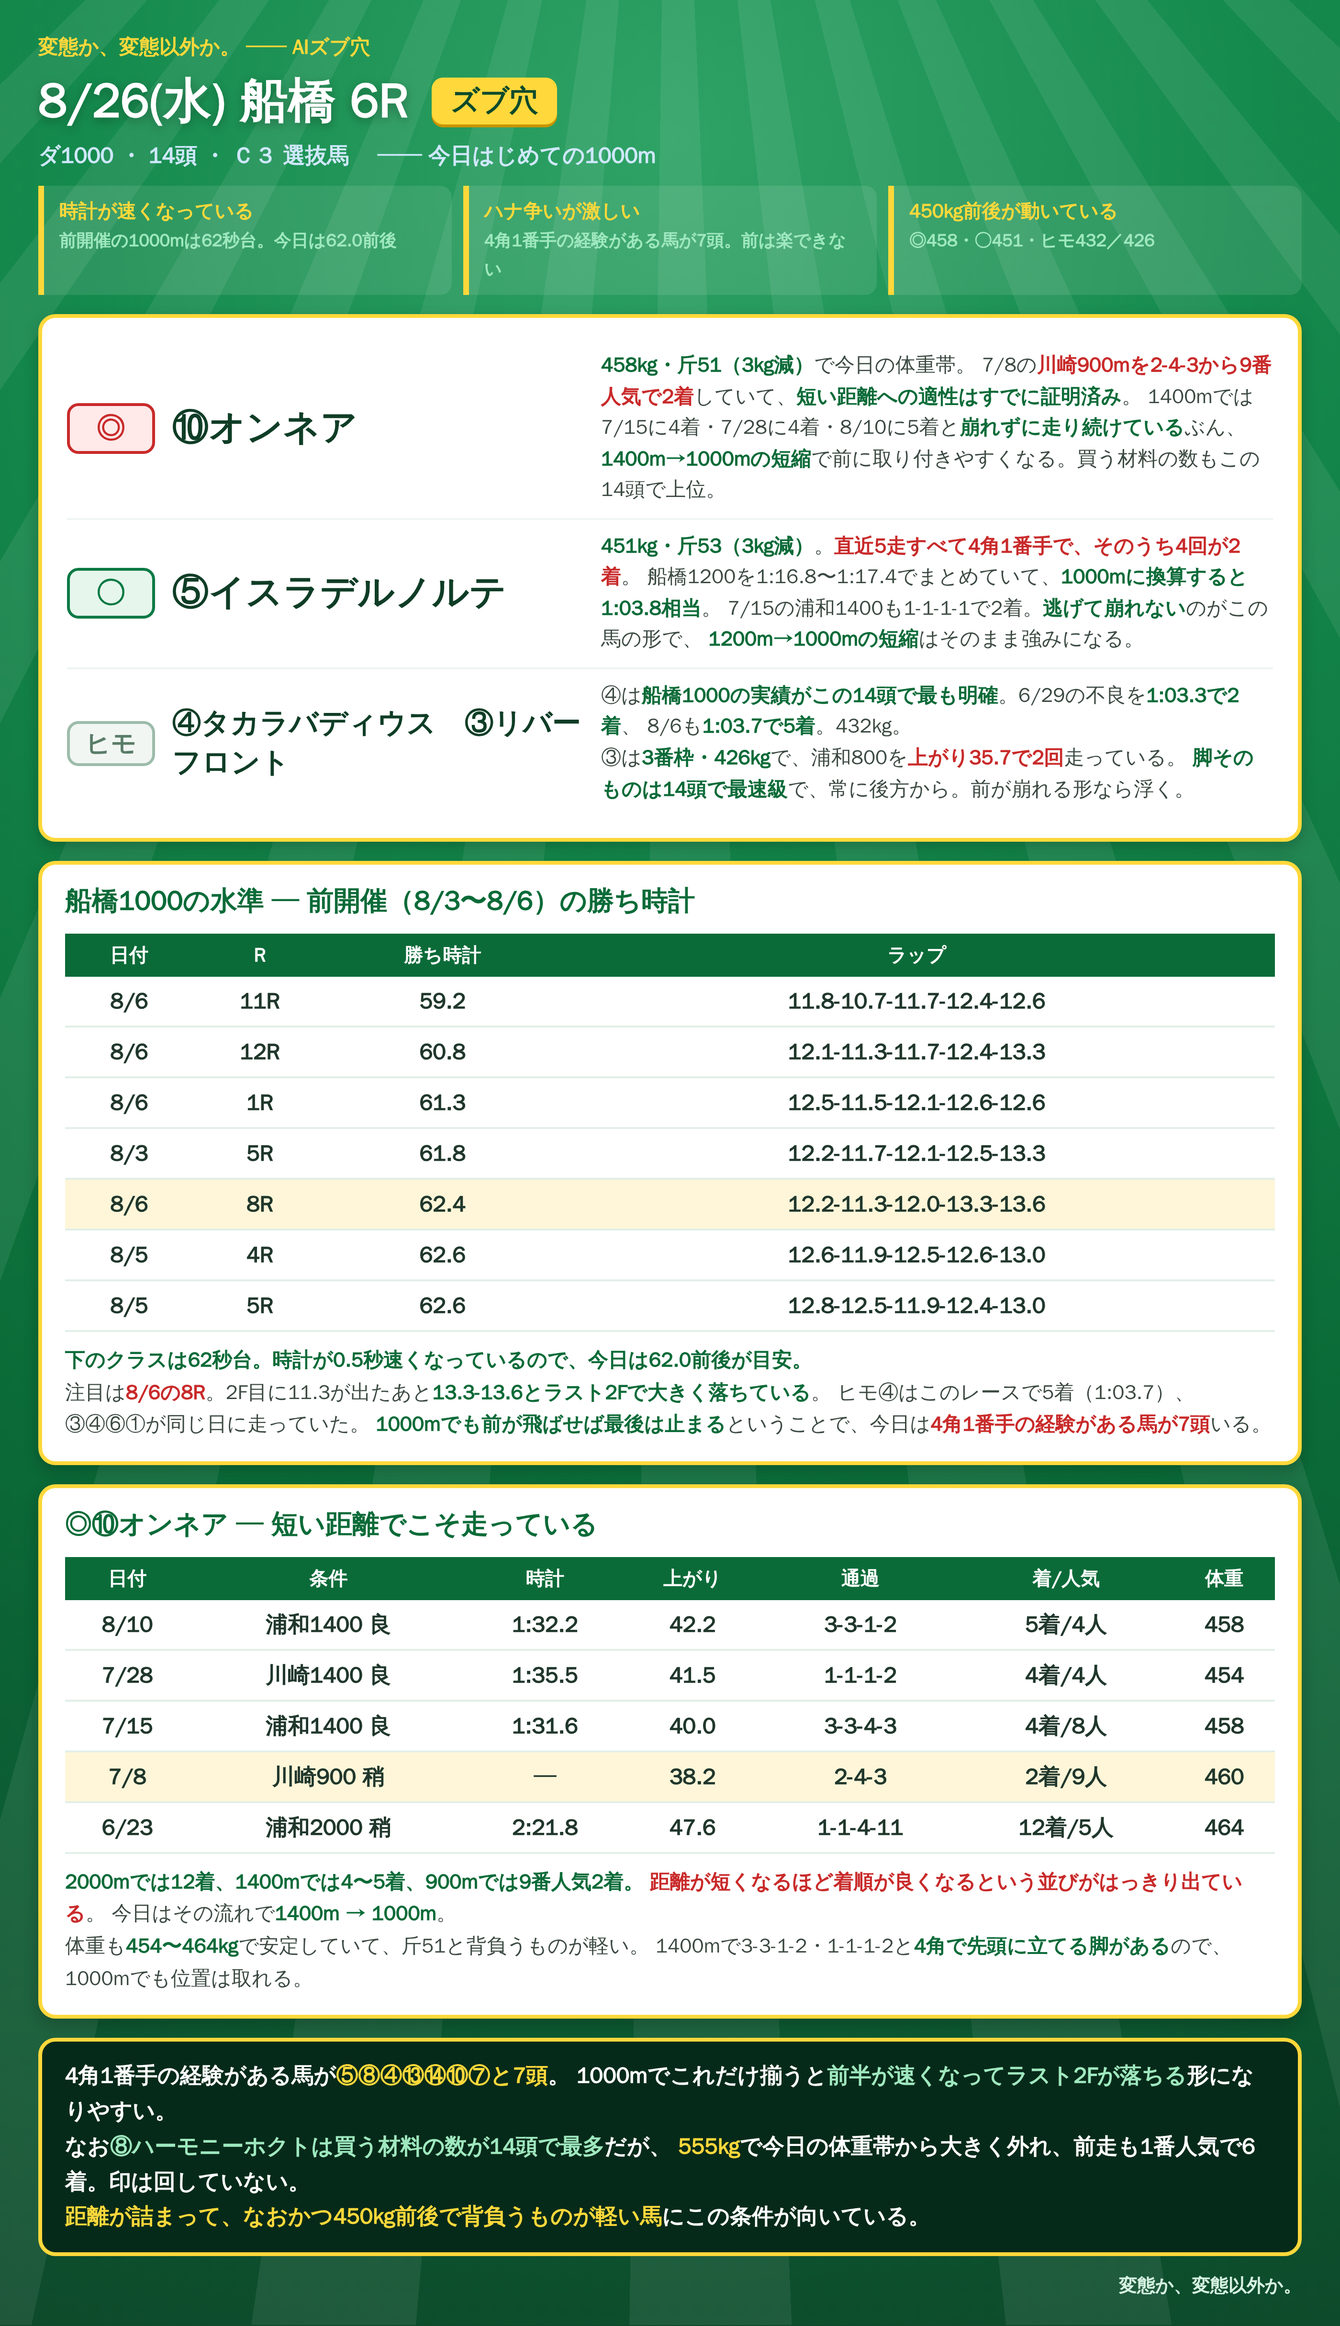
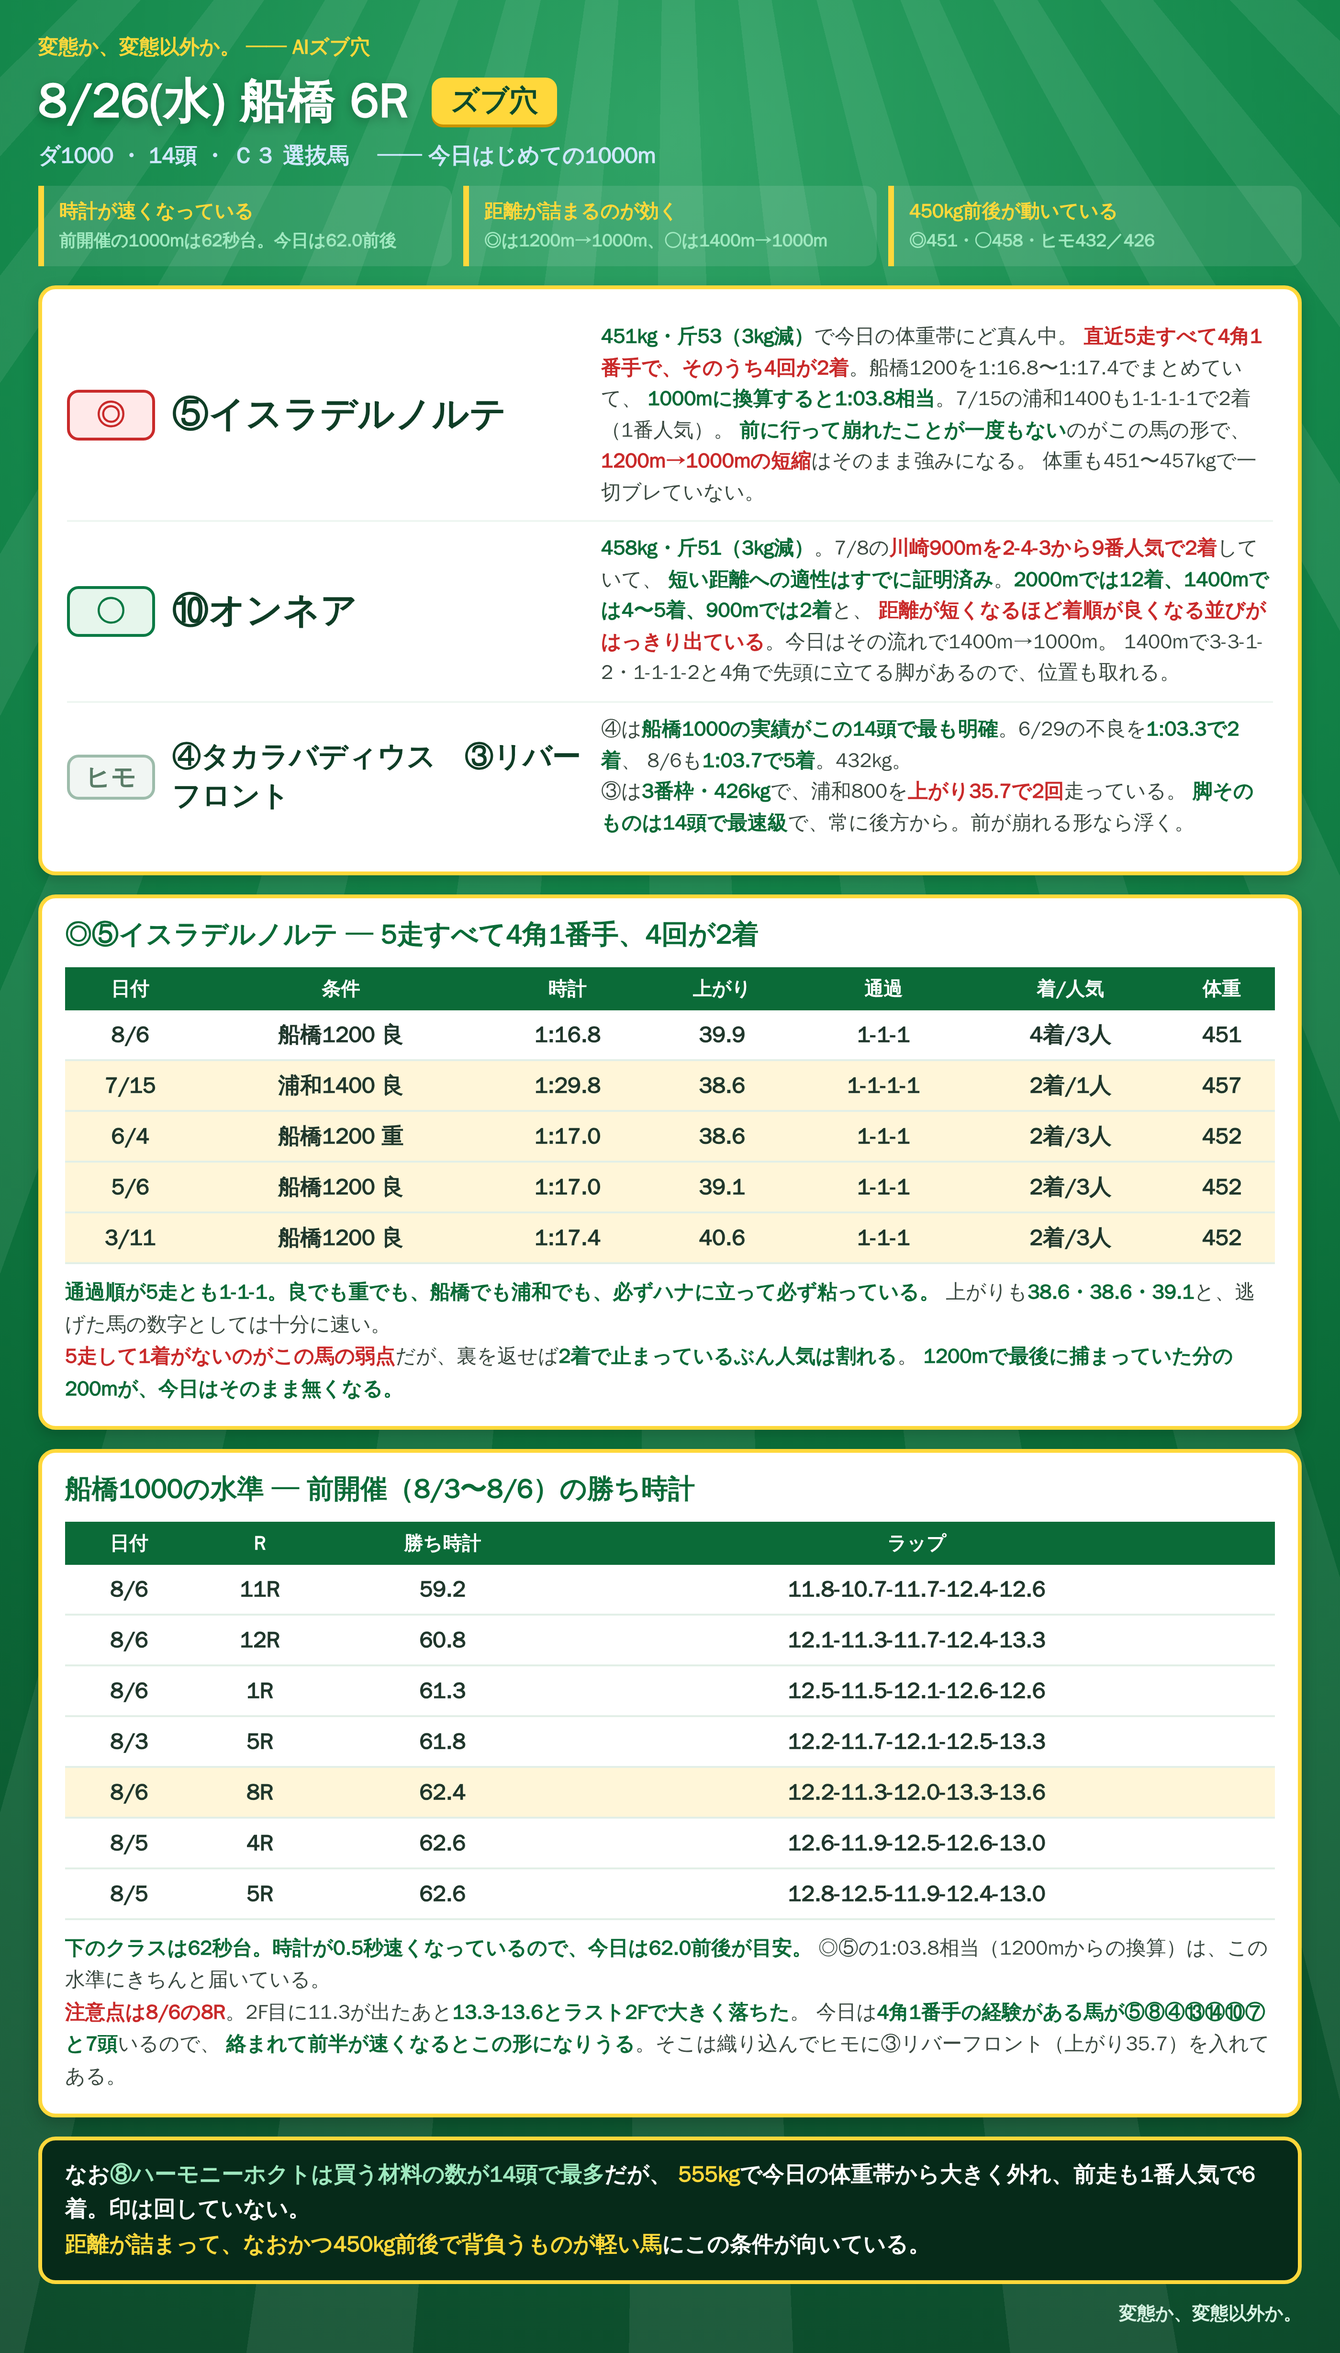
8/26 船橋 6R ◎⑤イスラデルノルテに差し替え
◎⑤イスラデルノルテ ○⑩オンネア に入れ替え（ヒモは④③のまま）。
⑤は直近5走すべて4角1番手でうち4回が2着、船橋1200の1:16.8は1000m換算1:03.8相当。
451kg・斤53で体重帯にど真ん中、体重も451〜457kgで一切ブレていない。
1200mで最後に捕まっていた200mが今日は無くなる、という組み立て。

4角1番手の経験がある馬が7頭いる点は織り込み済みで、前が飛ばして止まる形
（8/6 8Rの13.3-13.6）に備えてヒモに③リバーフロント（浦和800で上35.7）を残した。

Claude-Session: https://claude.ai/code/session_01RoHscZkr96FNaxQWvUqgEw

diff --git a/notes/live/2026-08-26/funabashi_6R.html b/notes/live/2026-08-26/funabashi_6R.html
@@ -45,24 +45,25 @@
 
 <div class="reads">
  <div class="rd"><b>時計が速くなっている</b><br><span class="x">前開催の1000mは62秒台。今日は62.0前後</span></div>
- <div class="rd"><b>ハナ争いが激しい</b><br><span class="x">4角1番手の経験がある馬が7頭。前は楽できない</span></div>
- <div class="rd"><b>450kg前後が動いている</b><br><span class="x">◎458・○451・ヒモ432／426</span></div>
+ <div class="rd"><b>距離が詰まるのが効く</b><br><span class="x">◎は1200m→1000m、○は1400m→1000m</span></div>
+ <div class="rd"><b>450kg前後が動いている</b><br><span class="x">◎451・○458・ヒモ432／426</span></div>
 </div>
 
 <div class="picks">
  <div class="pr">
-  <div class="mk">◎</div><div class="nm">⑩オンネア</div>
-  <div class="why"><b>458kg・斤51（3kg減）</b>で今日の体重帯。
-  7/8の<b class="r">川崎900mを2-4-3から9番人気で2着</b>していて、<b>短い距離への適性はすでに証明済み</b>。
-  1400mでは7/15に4着・7/28に4着・8/10に5着と<b>崩れずに走り続けている</b>ぶん、
-  <b>1400m→1000mの短縮</b>で前に取り付きやすくなる。買う材料の数もこの14頭で上位。</div>
+  <div class="mk">◎</div><div class="nm">⑤イスラデルノルテ</div>
+  <div class="why"><b>451kg・斤53（3kg減）</b>で今日の体重帯にど真ん中。
+  <b class="r">直近5走すべて4角1番手で、そのうち4回が2着</b>。船橋1200を1:16.8〜1:17.4でまとめていて、
+  <b>1000mに換算すると1:03.8相当</b>。7/15の浦和1400も1-1-1-1で2着（1番人気）。
+  <b>前に行って崩れたことが一度もない</b>のがこの馬の形で、<b class="r">1200m→1000mの短縮</b>はそのまま強みになる。
+  体重も451〜457kgで一切ブレていない。</div>
  </div>
  <div class="pr">
-  <div class="mk mk2">○</div><div class="nm">⑤イスラデルノルテ</div>
-  <div class="why"><b>451kg・斤53（3kg減）</b>。<b class="r">直近5走すべて4角1番手で、そのうち4回が2着</b>。
-  船橋1200を1:16.8〜1:17.4でまとめていて、<b>1000mに換算すると1:03.8相当</b>。
-  7/15の浦和1400も1-1-1-1で2着。<b>逃げて崩れない</b>のがこの馬の形で、
-  <b>1200m→1000mの短縮</b>はそのまま強みになる。</div>
+  <div class="mk mk2">○</div><div class="nm">⑩オンネア</div>
+  <div class="why"><b>458kg・斤51（3kg減）</b>。7/8の<b class="r">川崎900mを2-4-3から9番人気で2着</b>していて、
+  <b>短い距離への適性はすでに証明済み</b>。<b>2000mでは12着、1400mでは4〜5着、900mでは2着</b>と、
+  <b class="r">距離が短くなるほど着順が良くなる並びがはっきり出ている</b>。今日はその流れで1400m→1000m。
+  1400mで3-3-1-2・1-1-1-2と4角で先頭に立てる脚があるので、位置も取れる。</div>
  </div>
  <div class="pr">
   <div class="mk mk3">ヒモ</div><div class="nm s">④タカラバディウス　③リバーフロント</div>
@@ -71,6 +72,22 @@
   ③は<b>3番枠・426kg</b>で、浦和800を<b class="r">上がり35.7で2回</b>走っている。
   <b>脚そのものは14頭で最速級</b>で、常に後方から。前が崩れる形なら浮く。</div>
  </div>
+</div>
+
+<div class="sec">
+ <div class="sh">◎⑤イスラデルノルテ ─ 5走すべて4角1番手、4回が2着</div>
+ <table>
+  <tr><th>日付</th><th>条件</th><th>時計</th><th>上がり</th><th>通過</th><th>着/人気</th><th>体重</th></tr>
+  <tr><td>8/6</td><td>船橋1200 良</td><td>1:16.8</td><td>39.9</td><td><b>1-1-1</b></td><td>4着/3人</td><td>451</td></tr>
+  <tr class="hi"><td>7/15</td><td>浦和1400 良</td><td>1:29.8</td><td><b>38.6</b></td><td><b>1-1-1-1</b></td><td><b>2着</b>/1人</td><td>457</td></tr>
+  <tr class="hi"><td>6/4</td><td>船橋1200 <b>重</b></td><td>1:17.0</td><td><b>38.6</b></td><td><b>1-1-1</b></td><td><b>2着</b>/3人</td><td>452</td></tr>
+  <tr class="hi"><td>5/6</td><td>船橋1200 良</td><td>1:17.0</td><td>39.1</td><td><b>1-1-1</b></td><td><b>2着</b>/3人</td><td>452</td></tr>
+  <tr class="hi"><td>3/11</td><td>船橋1200 良</td><td>1:17.4</td><td>40.6</td><td><b>1-1-1</b></td><td><b>2着</b>/3人</td><td>452</td></tr>
+ </table>
+ <div class="note"><b>通過順が5走とも1-1-1。良でも重でも、船橋でも浦和でも、必ずハナに立って必ず粘っている。</b>
+ 上がりも<b>38.6・38.6・39.1</b>と、逃げた馬の数字としては十分に速い。<br>
+ <b class="r">5走して1着がないのがこの馬の弱点</b>だが、裏を返せば<b>2着で止まっているぶん人気は割れる</b>。
+ <b>1200mで最後に捕まっていた分の200mが、今日はそのまま無くなる。</b></div>
 </div>
 
 <div class="sec">
@@ -85,32 +102,14 @@
   <tr><td>8/5</td><td>4R</td><td>62.6</td><td class="lap">12.6-11.9-12.5-12.6-13.0</td></tr>
   <tr><td>8/5</td><td>5R</td><td>62.6</td><td class="lap">12.8-12.5-11.9-12.4-13.0</td></tr>
  </table>
- <div class="note"><b>下のクラスは62秒台。時計が0.5秒速くなっているので、今日は62.0前後が目安。</b><br>
- 注目は<b class="r">8/6の8R</b>。2F目に11.3が出たあと<b>13.3-13.6とラスト2Fで大きく落ちている</b>。
- ヒモ④はこのレースで5着（1:03.7）、③④⑥①が同じ日に走っていた。
- <b>1000mでも前が飛ばせば最後は止まる</b>ということで、今日は<b class="r">4角1番手の経験がある馬が7頭</b>いる。</div>
+ <div class="note"><b>下のクラスは62秒台。時計が0.5秒速くなっているので、今日は62.0前後が目安。</b>
+ ◎⑤の1:03.8相当（1200mからの換算）は、この水準にきちんと届いている。<br>
+ <b class="r">注意点は8/6の8R</b>。2F目に11.3が出たあと<b>13.3-13.6とラスト2Fで大きく落ちた</b>。
+ 今日は<b>4角1番手の経験がある馬が⑤⑧④⑬⑭⑩⑦と7頭</b>いるので、
+ <b>絡まれて前半が速くなるとこの形になりうる</b>。そこは織り込んでヒモに③リバーフロント（上がり35.7）を入れてある。</div>
 </div>
 
-<div class="sec">
- <div class="sh">◎⑩オンネア ─ 短い距離でこそ走っている</div>
- <table>
-  <tr><th>日付</th><th>条件</th><th>時計</th><th>上がり</th><th>通過</th><th>着/人気</th><th>体重</th></tr>
-  <tr><td>8/10</td><td>浦和1400 良</td><td>1:32.2</td><td>42.2</td><td>3-3-1-2</td><td>5着/4人</td><td>458</td></tr>
-  <tr><td>7/28</td><td>川崎1400 良</td><td>1:35.5</td><td>41.5</td><td>1-1-1-2</td><td>4着/4人</td><td>454</td></tr>
-  <tr><td>7/15</td><td>浦和1400 良</td><td>1:31.6</td><td>40.0</td><td>3-3-4-3</td><td>4着/8人</td><td>458</td></tr>
-  <tr class="hi"><td>7/8</td><td><b>川崎900 稍</b></td><td>─</td><td><b>38.2</b></td><td>2-4-3</td><td><b>2着</b>/<b>9人</b></td><td>460</td></tr>
-  <tr><td>6/23</td><td>浦和2000 稍</td><td>2:21.8</td><td>47.6</td><td>1-1-4-11</td><td>12着/5人</td><td>464</td></tr>
- </table>
- <div class="note"><b>2000mでは12着、1400mでは4〜5着、900mでは9番人気2着。</b>
- <b class="r">距離が短くなるほど着順が良くなるという並びがはっきり出ている</b>。
- 今日はその流れで<b>1400m → 1000m</b>。<br>
- 体重も<b>454〜464kg</b>で安定していて、斤51と背負うものが軽い。
- 1400mで3-3-1-2・1-1-1-2と<b>4角で先頭に立てる脚がある</b>ので、1000mでも位置は取れる。</div>
-</div>
-
-<div class="foot">4角1番手の経験がある馬が<span class="y">⑤⑧④⑬⑭⑩⑦と7頭</span>。
-1000mでこれだけ揃うと<span class="c">前半が速くなってラスト2Fが落ちる</span>形になりやすい。<br>
-なお<span class="c">⑧ハーモニーホクトは買う材料の数が14頭で最多</span>だが、
+<div class="foot">なお<span class="c">⑧ハーモニーホクトは買う材料の数が14頭で最多</span>だが、
 <span class="y">555kg</span>で今日の体重帯から大きく外れ、前走も1番人気で6着。印は回していない。<br>
 <span class="y">距離が詰まって、なおかつ450kg前後で背負うものが軽い馬</span>にこの条件が向いている。</div>
 <div class="sig">変態か、変態以外か。</div>

diff --git a/notes/live/2026-08-26/README.md b/notes/live/2026-08-26/README.md
@@ -290,9 +290,26 @@
 
 | 印 | 馬 | 体重 | 枠 | 斤量 |
 |---|---|---|---|---|
-| ◎ | ⑩オンネア | 458 | 10 | **51** |
-| ○ | ⑤イスラデルノルテ | 451 | 5 | **53** |
+| ◎ | ⑤イスラデルノルテ | 451 | 5 | **53** |
+| ○ | ⑩オンネア | 458 | 10 | **51** |
 | ヒモ | ④タカラバディウス／③リバーフロント | 432／426 | 4／3 | 54／54 |
+
+### ◎⑤イスラデルノルテ ─ 5走すべて4角1番手、4回が2着
+
+| 日付 | 条件 | 時計 | 上がり | 通過 | 着/人気 | 体重 |
+|---|---|---|---|---|---|---|
+| 8/6 | 船橋1200 良 | 1:16.8 | 39.9 | **1-1-1** | 4着/3人 | 451 |
+| 7/15 | 浦和1400 良 | 1:29.8 | **38.6** | **1-1-1-1** | **2着**/1人 | 457 |
+| 6/4 | 船橋1200 **重** | 1:17.0 | **38.6** | **1-1-1** | **2着**/3人 | 452 |
+| 5/6 | 船橋1200 良 | 1:17.0 | 39.1 | **1-1-1** | **2着**/3人 | 452 |
+| 3/11 | 船橋1200 良 | 1:17.4 | 40.6 | **1-1-1** | **2着**/3人 | 452 |
+
+**通過順が5走とも1-1-1。良でも重でも、船橋でも浦和でも、必ずハナに立って必ず粘っている。**
+上がりも38.6・38.6・39.1と、逃げた馬の数字としては十分に速い。
+船橋1200の1:16.8は**1000m換算で1:03.8相当**。体重も451〜457kgで一切ブレていない。
+
+**5走して1着がないのがこの馬の弱点**だが、裏を返せば2着で止まっているぶん人気は割れる。
+**1200mで最後に捕まっていた分の200mが、今日はそのまま無くなる。**
 
 ### 船橋1000の水準（前開催 8/3〜8/6 の勝ち時計）
 
@@ -307,43 +324,32 @@
 | 8/5 | 5R | 62.6 | 12.8-12.5-11.9-12.4-13.0 |
 
 **下のクラスは62秒台。時計が0.5秒速くなっているので今日は62.0前後が目安。**
+◎⑤の1:03.8相当はこの水準に届いている。
 
-注目は**8/6の8R**。2F目に11.3が出たあと**13.3-13.6とラスト2Fで大きく落ちている**。
-ヒモ④はこのレースで5着（1:03.7）。**1000mでも前が飛ばせば最後は止まる。**
+**注意点は8/6の8R。** 2F目に11.3が出たあと**13.3-13.6とラスト2Fで大きく落ちた**。
+今日は**4角1番手の経験がある馬が⑤⑧④⑬⑭⑩⑦と7頭**いるので、
+絡まれて前半が速くなるとこの形になりうる。
+そこは織り込んでヒモに③リバーフロント（浦和800で上がり35.7）を入れてある。
 
-### ◎⑩オンネア ─ 短い距離でこそ走っている
+### ○⑩オンネア ─ 短い距離でこそ走っている
 
-| 日付 | 条件 | 時計 | 上がり | 通過 | 着/人気 | 体重 |
-|---|---|---|---|---|---|---|
-| 8/10 | 浦和1400 良 | 1:32.2 | 42.2 | 3-3-1-2 | 5着/4人 | 458 |
-| 7/28 | 川崎1400 良 | 1:35.5 | 41.5 | 1-1-1-2 | 4着/4人 | 454 |
-| 7/15 | 浦和1400 良 | 1:31.6 | 40.0 | 3-3-4-3 | 4着/8人 | 458 |
-| **7/8** | **川崎900 稍** | ─ | **38.2** | 2-4-3 | **2着**/**9人** | 460 |
-| 6/23 | 浦和2000 稍 | 2:21.8 | 47.6 | 1-1-4-11 | 12着/5人 | 464 |
+| 日付 | 条件 | 上がり | 通過 | 着/人気 | 体重 |
+|---|---|---|---|---|---|
+| 8/10 | 浦和1400 良 | 42.2 | 3-3-1-2 | 5着/4人 | 458 |
+| 7/28 | 川崎1400 良 | 41.5 | 1-1-1-2 | 4着/4人 | 454 |
+| 7/15 | 浦和1400 良 | 40.0 | 3-3-4-3 | 4着/8人 | 458 |
+| **7/8** | **川崎900 稍** | **38.2** | 2-4-3 | **2着**/**9人** | 460 |
+| 6/23 | 浦和2000 稍 | 47.6 | 1-1-4-11 | 12着/5人 | 464 |
 
 **2000mでは12着、1400mでは4〜5着、900mでは9番人気2着。**
-**距離が短くなるほど着順が良くなるという並びがはっきり出ている。** 今日はその流れで1400m → 1000m。
-
-体重も454〜464kgで安定していて、斤51と背負うものが軽い。
-1400mで3-3-1-2・1-1-1-2と4角で先頭に立てる脚があるので、1000mでも位置は取れる。
-
-### ○⑤イスラデルノルテ
-
-451kg・斤53。**直近5走すべて4角1番手で、そのうち4回が2着。**
-船橋1200を1:16.8〜1:17.4でまとめていて、1000mに換算すると**1:03.8相当**。
-7/15の浦和1400も1-1-1-1で2着。**逃げて崩れない**のがこの馬の形で、1200m→1000mの短縮はそのまま強みになる。
+距離が短くなるほど着順が良くなる並びがはっきり出ている。今日はその流れで1400m → 1000m。
 
 ### ヒモの2頭
 
 **④タカラバディウス** … 船橋1000の実績が14頭で最も明確。6/29の不良を**1:03.3で2着**、8/6も1:03.7で5着。432kg。
-**③リバーフロント** … 3番枠・426kg。浦和800を**上がり35.7で2回**走っていて脚そのものは14頭で最速級。常に後方から。前が崩れる形なら浮く。
+**③リバーフロント** … 3番枠・426kg。浦和800を**上がり35.7で2回**走っていて脚そのものは14頭で最速級。常に後方から。
 
 ### 印を回さなかった馬
 
 **⑧ハーモニーホクト** … 買う材料の数は14頭で最多だが**555kg**で今日の体重帯から大きく外れ、
 前走も1番人気で6着。前で運ぶ形も今日の条件とは逆向き。
-
-### 展開
-
-4角1番手の経験がある馬が**⑤⑧④⑬⑭⑩⑦と7頭**。
-1000mでこれだけ揃うと前半が速くなってラスト2Fが落ちる形になりやすい。
